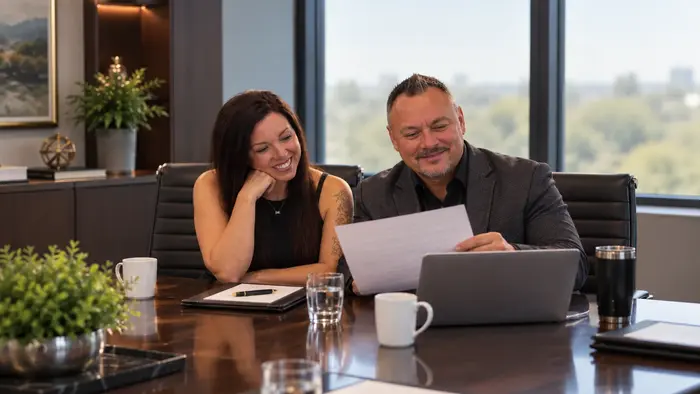
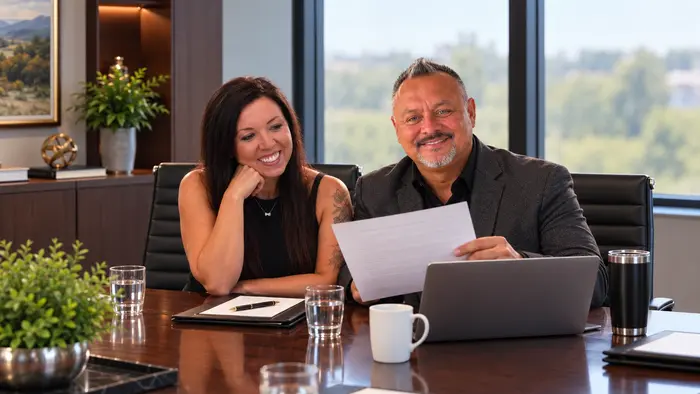
Swap client meeting photo; version its URLs
Claude-Session: https://claude.ai/code/session_01LULKfrfoqBWvdotWMRfoLK

diff --git a/index.html b/index.html
@@ -235,10 +235,10 @@
         <figure class="feature-photo">
           <picture>
             <source type="image/webp"
-                    srcset="assets/client-meeting-700.webp 700w, assets/client-meeting-1100.webp 1100w, assets/client-meeting-1600.webp 1600w"
+                    srcset="assets/client-meeting-700.webp?v=20261008 700w, assets/client-meeting-1100.webp?v=20261008 1100w, assets/client-meeting-1600.webp?v=20261008 1600w"
                     sizes="(min-width: 1120px) 1088px, calc(100vw - 32px)">
-            <img src="assets/client-meeting-1100.jpg"
-                 srcset="assets/client-meeting-700.jpg 700w, assets/client-meeting-1100.jpg 1100w, assets/client-meeting-1600.jpg 1600w"
+            <img src="assets/client-meeting-1100.jpg?v=20261008"
+                 srcset="assets/client-meeting-700.jpg?v=20261008 700w, assets/client-meeting-1100.jpg?v=20261008 1100w, assets/client-meeting-1600.jpg?v=20261008 1600w"
                  sizes="(min-width: 1120px) 1088px, calc(100vw - 32px)"
                  alt="Nate Hall smiling as he goes over paperwork with a client"
                  width="1600" height="900" loading="lazy" decoding="async">

diff --git a/CLAUDE.md b/CLAUDE.md
@@ -87,6 +87,7 @@ Form checkbox values (must match `$allowed` in `contact.php`): `Life insurance`,
 - `assets/logo.png`, `logo-sm.*`, `favicon.png`, `apple-touch-icon.png` come from Nate's shield logo.
 - `assets/client-meeting-{700,1100,1600}.{webp,jpg}`: photo of Nate going over paperwork with a client, shown
   full-width above the "Get to Know Me" heading (`.feature-photo`, lazy-loaded, responsive `srcset`).
+  Its URLs carry `?v=YYYYMMDD` as well — bump it when the photo changes. Cropped to 16:9 (1600×900 max).
 
 ## Cache-busting (important)
 - `css/styles.css` and `js/main.js` are linked with a version query (`?v=YYYYMMDD`) in index.html,
